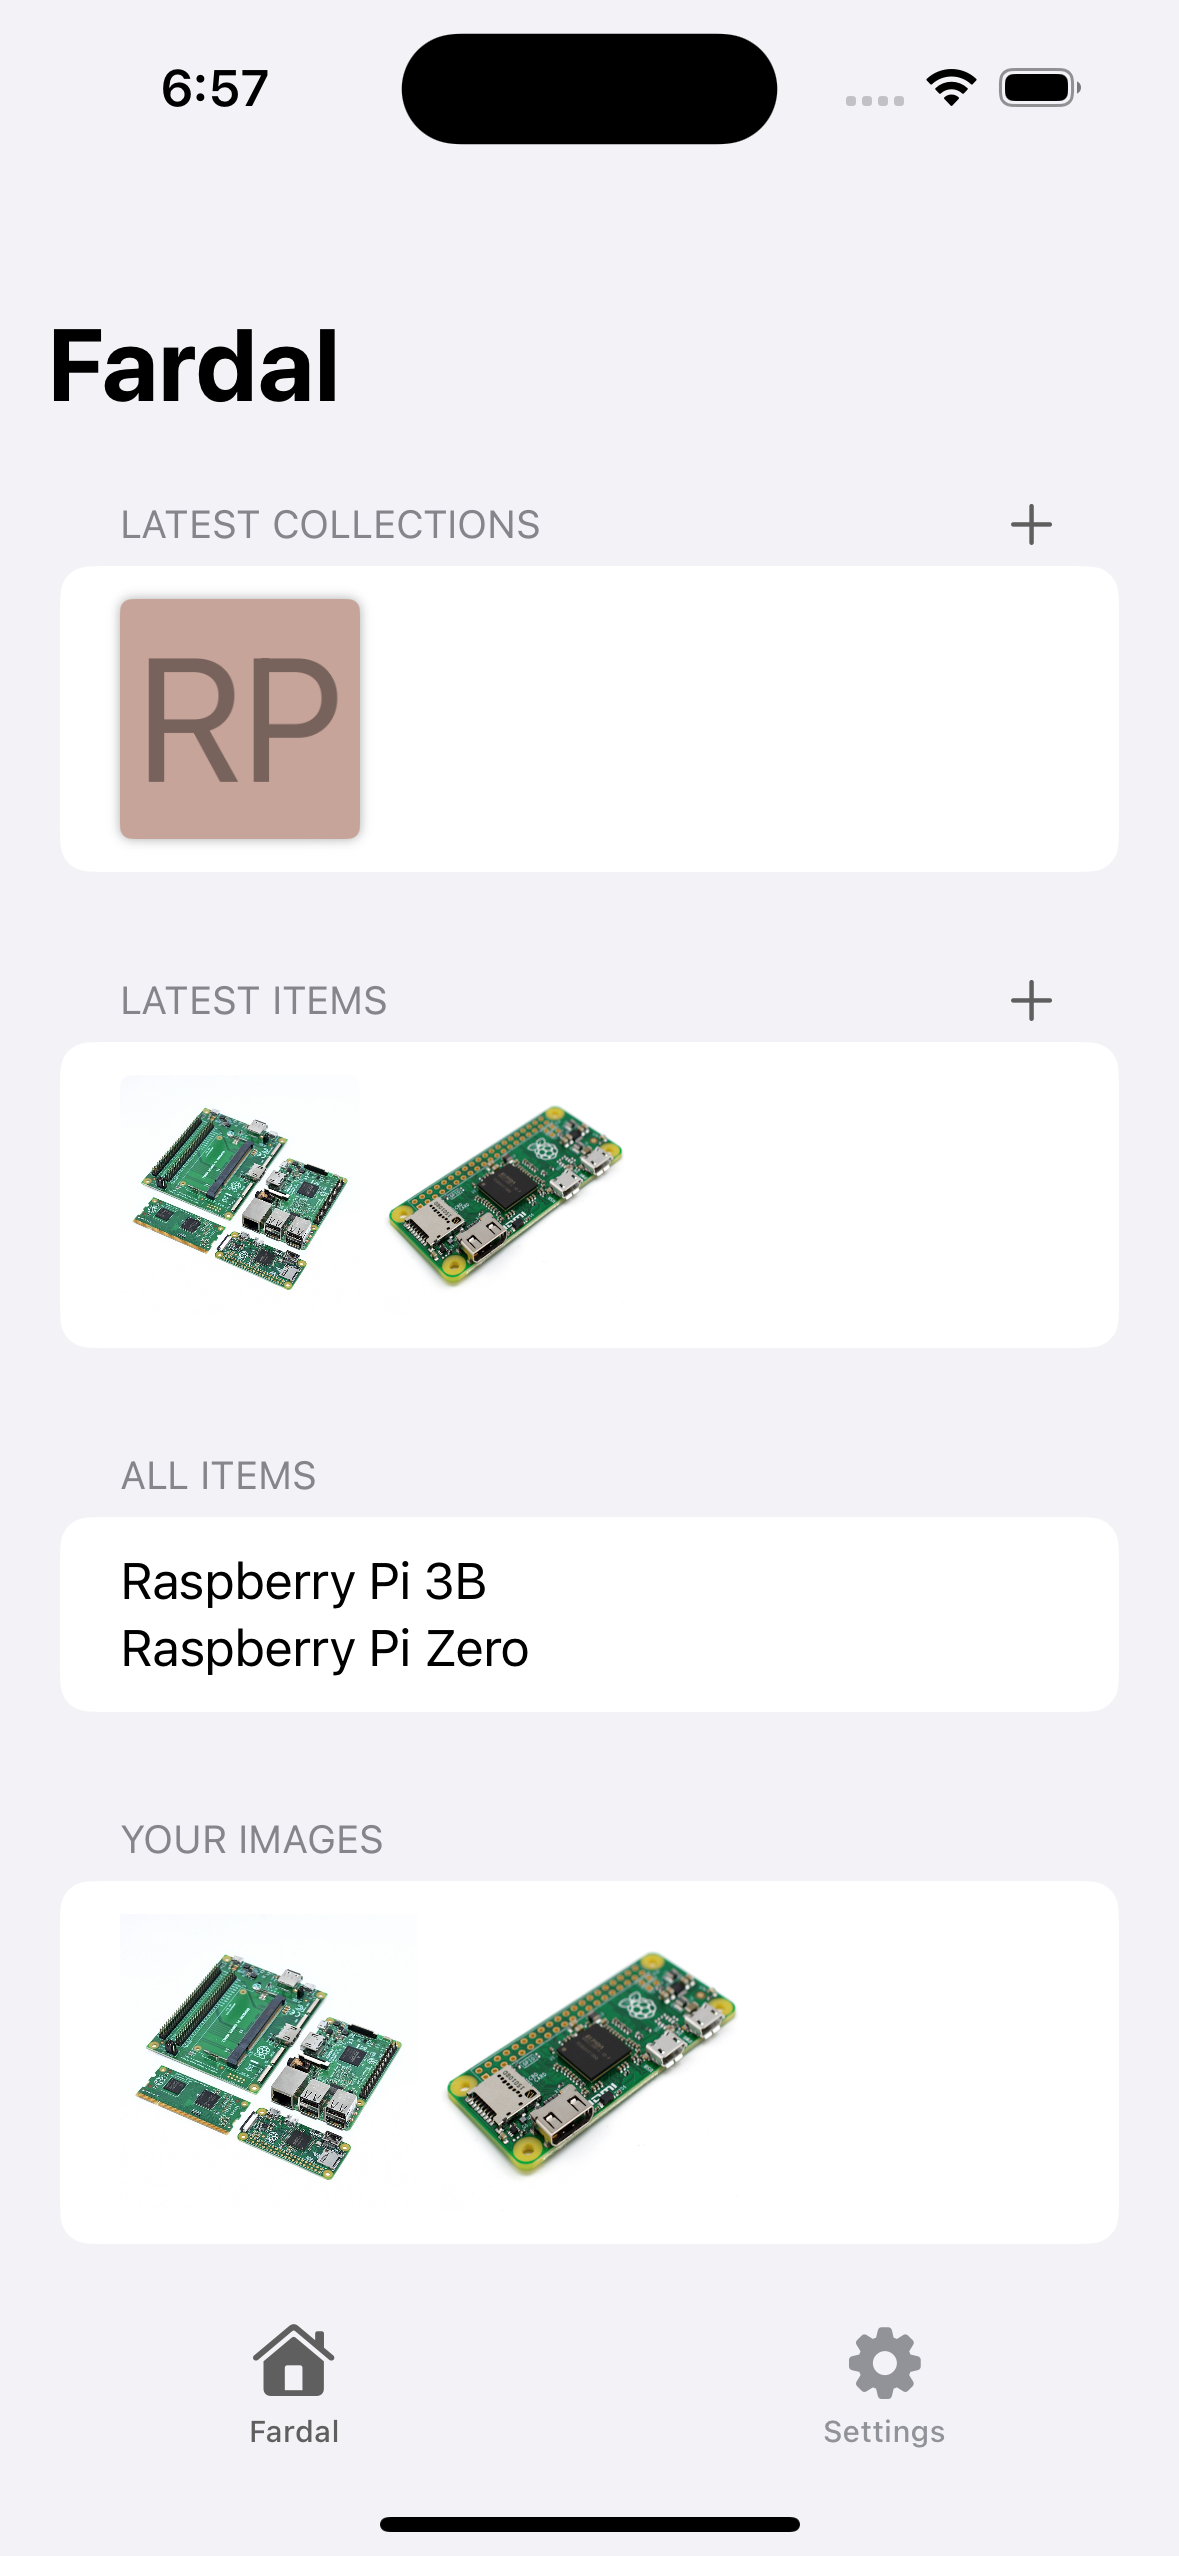
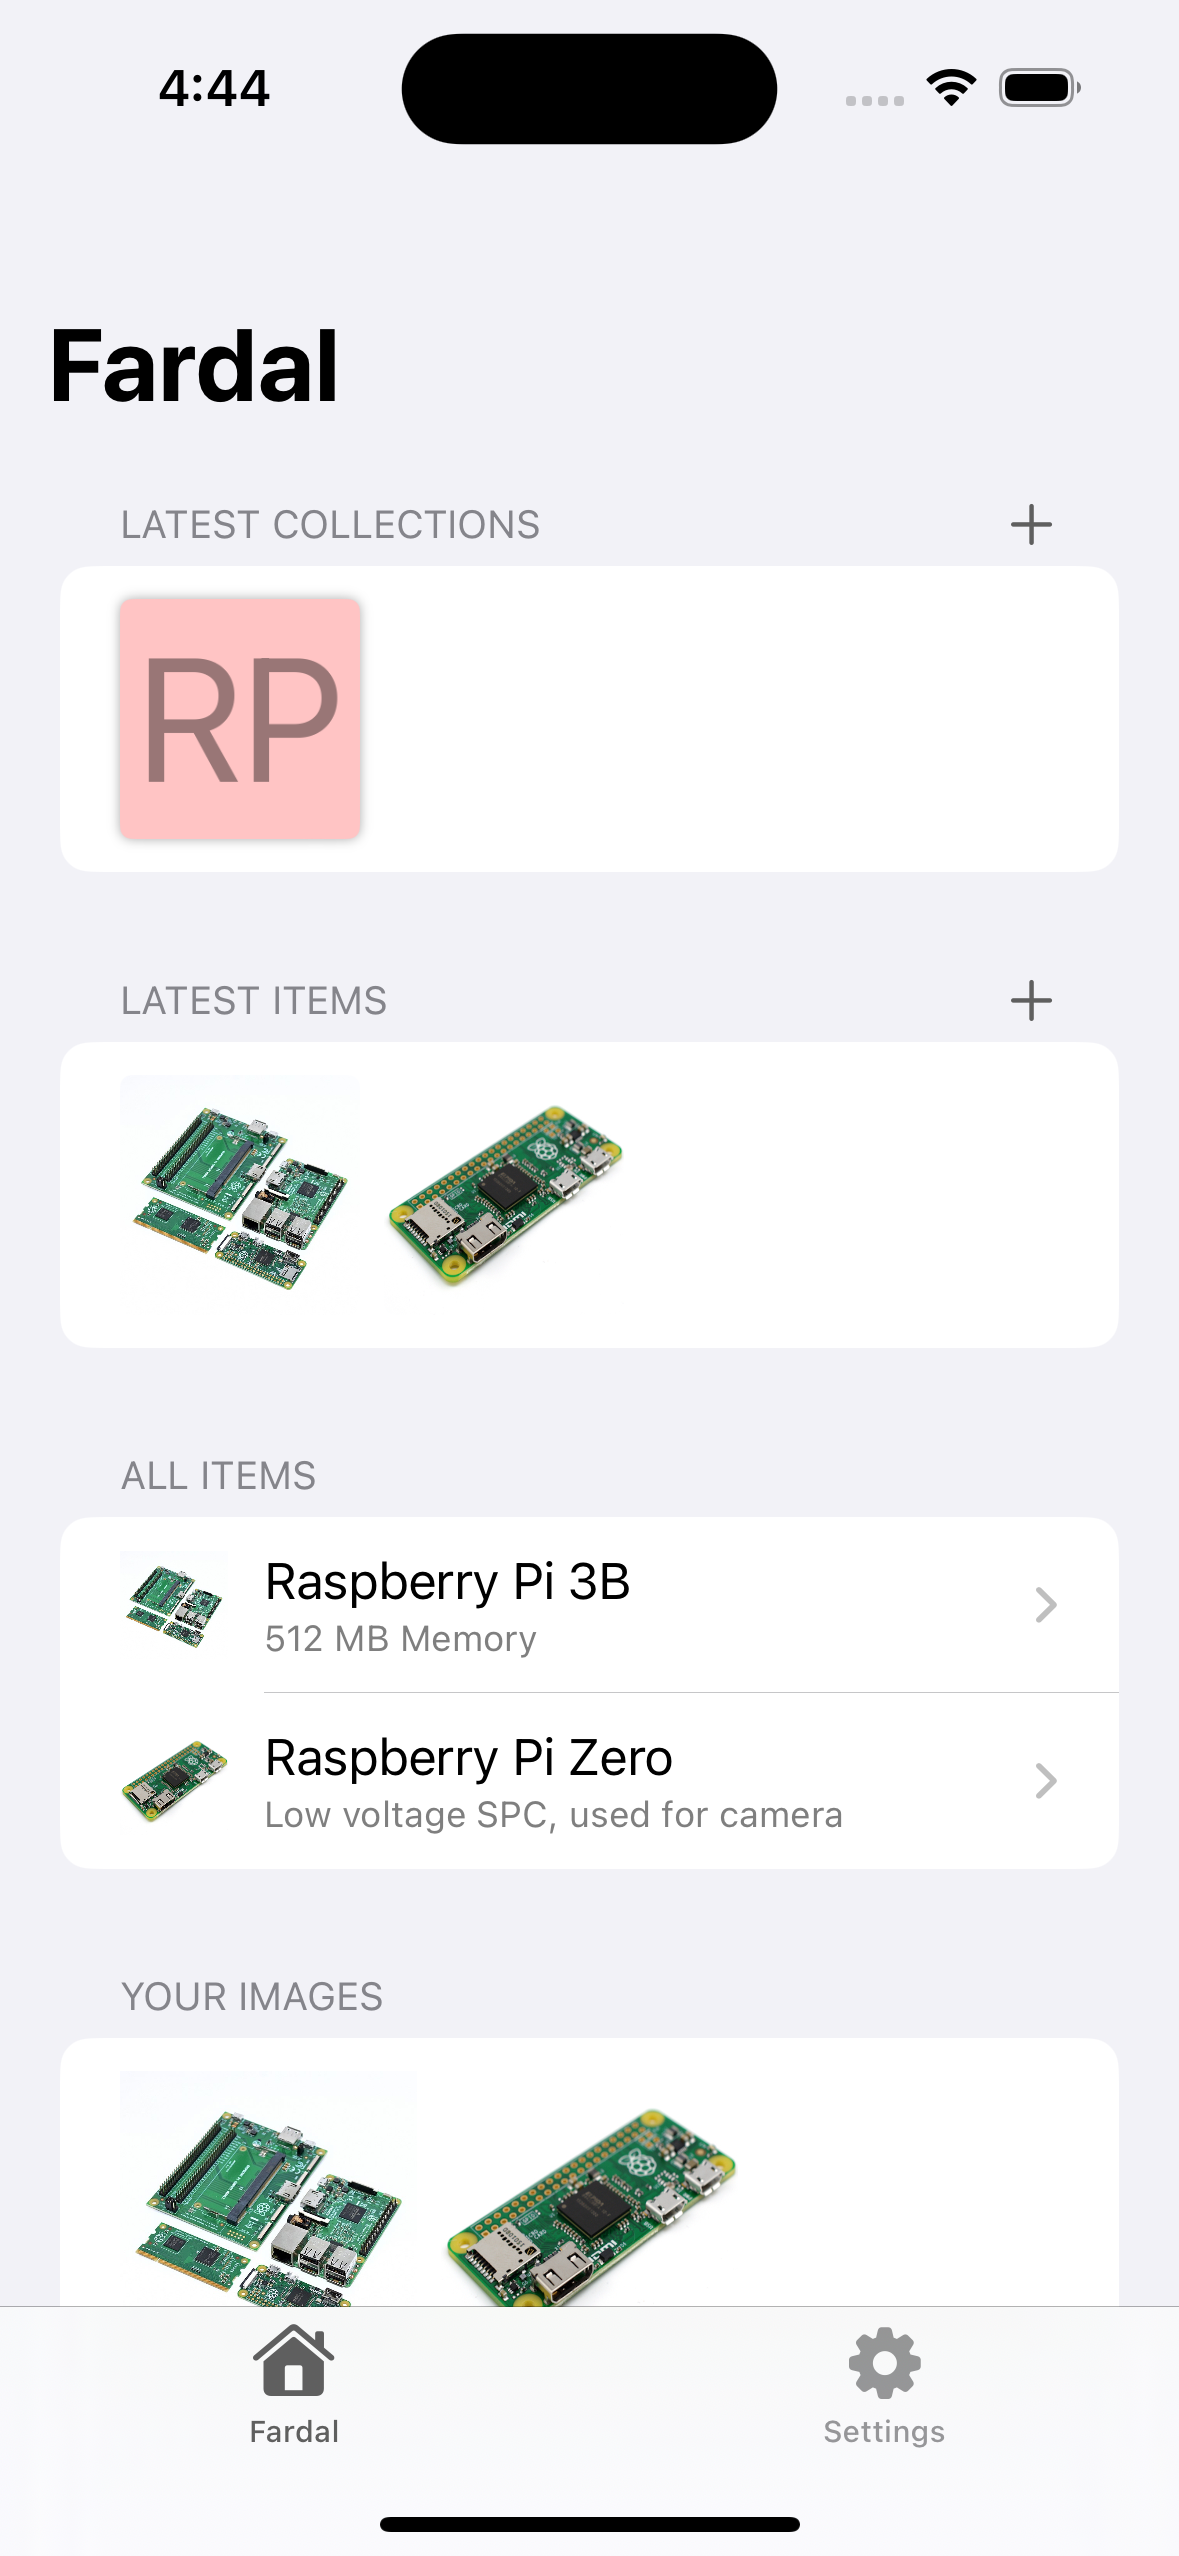
Added item list record styling and some Readme enhancements (#34)

diff --git a/Fardal/UI/Features/Dashboard/DashboardView.swift b/Fardal/UI/Features/Dashboard/DashboardView.swift
@@ -67,7 +67,7 @@ extension DashboardView {
                     )
                 }
                 else {
-                    ForEach(collections) { collection in
+                    ForEach(collections.prefix(10)) { collection in
                         CollectionThumbnail(
                             collection: collection,
                             size: .large,
@@ -105,7 +105,7 @@ extension DashboardView {
                 else {
                     ScrollView(.horizontal) {
                         LazyHStack {
-                            ForEach(items) { item in
+                            ForEach(items.prefix(10)) { item in
                                 ItemThumbnail(
                                     item: item,
                                     size: .large,
@@ -142,10 +142,8 @@ extension DashboardView {
             else {
                 List {
                     ForEach(items) { item in
-                        NavigationLink(value: item) {
-                            Text(item.title)
-                        }
-                        .buttonStyle(.borderless)
+                        ItemNavigationLink(item: item)
+                            .buttonStyle(.borderless)
                     }
                 }.frame(alignment: .leading)
             }

diff --git a/Fardal/UI/Features/Item/List/ItemNavigationLink.swift b/Fardal/UI/Features/Item/List/ItemNavigationLink.swift
@@ -1,0 +1,49 @@
+//
+//  ItemListItem.swift
+//  Fardal
+//
+//  Created by Tobias Scholze on 28.12.23.
+//
+
+import SwiftUI
+
+/// A `NavigationLink` that renderes its label with
+/// human-identifeable `Item` information.
+struct ItemNavigationLink: View {
+    // MARK: - Properties -
+    
+    /// Item that shall be rendered.
+    let item: ItemModel
+    
+    // MARK: - UI -
+    
+    var body: some View {
+        NavigationLink(destination: ItemDetailView(initialState: .read(item))) {
+            HStack(spacing: Theme.Spacing.medium) {
+                if let image = item.imagesData?.first?.image {
+                    image.resizable()
+                        .frame(width: 36, height: 36)
+                }
+                
+                VStack(alignment: .leading) {
+                    Text(item.title)
+                    Text(item.summary)
+                        .font(.caption)
+                        .foregroundStyle(.secondary)
+                }
+            }
+            
+        }
+    }
+}
+
+// MARK: - Preview -
+
+#Preview {
+    ItemNavigationLink(
+        item: .init(
+            title: "My title",
+            summary: "and my awesome summary!"
+        )
+    )
+}

diff --git a/Fardal/UI/Features/Collection/Detail/CollectionDetailView.swift b/Fardal/UI/Features/Collection/Detail/CollectionDetailView.swift
@@ -288,21 +288,7 @@ extension CollectionDetailView {
                 // Mode: Filled items
                 List {
                     ForEach(items) { item in
-                        NavigationLink {
-                            ItemDetailView(initialState: .read(item))
-                        } label: {
-                            HStack {
-                                if let uiImage = item.imagesData?.first?.uiImage {
-                                    LabeledContent {
-                                        Image(uiImage: uiImage)
-                                            .resizable()
-                                            .frame(width: 24, height: 24)
-                                    } label: {
-                                        Text(item.title)
-                                    }
-                                }
-                            }
-                        }
+                       ItemNavigationLink(item: item)
                     }
                 }
             }

diff --git a/Fardal/UI/Components/IconWizard/SymbolPickerView.swift b/Fardal/UI/Components/IconWizard/SymbolPickerView.swift
@@ -37,6 +37,8 @@ struct SymbolPickerView: View {
         VStack {
             // Serach field
             TextField("SymbolPicker.SearchQuery.Title", text: $searchQuery)
+                .autocorrectionDisabled()
+                .textInputAutocapitalization(.never)
                 .textFieldStyle(.roundedBorder)
                 .padding(.horizontal)
                 .onChange(
@@ -74,8 +76,9 @@ extension SymbolPickerView {
             filteredSymbols = allSymbols
         }
         else {
+            let lowercasedQuery = newValue.lowercased()
             filteredSymbols = allSymbols.filter { symbol in
-                symbol.rawValue.contains(newValue)
+                symbol.rawValue.contains(lowercasedQuery)
             }
         }
     }

diff --git a/Fardal/Models/Item/ItemModel.swift b/Fardal/Models/Item/ItemModel.swift
@@ -67,17 +67,3 @@ final class ItemModel {
         customAttributes = []
     }
 }
-
-// MARK: - Mocked -
-
-extension ItemModel {
-    /// Gets a static mocked item entry to be used on Previews
-    static func makeMockedItem(with context: ModelContext) -> ItemModel {
-        let item = ItemModel(title: "Mocked", summary: "Mocked", updatedAt: .now)
-        context.insert(item)
-
-        item.imagesData = [] // <-- Crash
-
-        return item
-    }
-}

diff --git a/Fardal/UI/Features/Image/ImageDetailView.swift b/Fardal/UI/Features/Image/ImageDetailView.swift
@@ -83,9 +83,7 @@ extension ImageDetailView {
 
     private func makeLinkedSection(for item: ItemModel) -> some View {
         Section("ImageDetail.Section.Usage.Title") {
-            NavigationLink(item.title) {
-                ItemDetailView(initialState: .read(item))
-            }
+            ItemNavigationLink(item: item)
         }
     }
 

diff --git a/README.md b/README.md
@@ -16,7 +16,14 @@
 ## Build tooling
 To have a versioned build phase tooling chain, the app uses [`mint`](https://github.com/yonaskolb/Mint) to have a defined version set of tools. 
 
-## Tools
+## Tech stack
+`Fardal` is meant to be 100% Swift and dependency-free app. It uses Swift, SwiftUI and SwiftData to be implemented. Simple external dependencies like a helper to work with `SFSymbols` are in use.
+
+Besides this, the app should only be designed using 100% stock controls. Additional styles for buttons or text are only allowed if the do not have any fallback to `UIKit` or other `inspect`-ion helpers to achieve the design.
+
+In later versions, Fardal could contain other Apple fameworks like `MLKit`.
+
+## Build tooling
 |Name|Configuration file|
 |-|-|
 |SwiftLint|`.swiftlint`|
@@ -30,22 +37,26 @@ The `SwiftFormat` command will be currently triggered by a shell command:
 mint run swiftformat .
 ```
 
-## Tech stack
-`Fardal` is meant to be 100% Swift and dependency-free app. It uses Swift, SwiftUI and SwiftData to be implemented. Simple external dependencies like a helper to work with `SFSymbols` are in use.
-
-Besides this, the app should only be designed using 100% stock controls. Additional styles for buttons or text are only allowed if the do not have any fallback to `UIKit` or other `inspect`-ion helpers to achieve the design.
-
-In later versions, Fardal could contain other Apple fameworks like `MLKit`.
-
 ## Blockers fixed
 ### Version 0.0.1
 I'm struggeling hard to get the `SwiftData` with inter-model relationships working. The unnamed Xcode crashes with no helpful stack-trace are a real bummer to continue with this app.
 
 ## How it looks
 ### Version 0.0.1
+
+**Row contents**
+1. Dashboard in empty and filled
+2. Collection detail in read and edit mode
+3. Item detail in empty and read mode
+4. Misc. views like custom pickers or other detail views
+
 | | | | |
 |-|-|-|-|
-|<img src="__docs/001-dashboard-empty-light.png"/>|<img src="__docs/001-dashboard-filled-light.png"/>|<img src="__docs/001-dashboard-item-detail-1.png"/>|<img src="__docs/001-dashboard-item-detail-2.png" />|
+|<img src="__docs/001-dashboard-empty-light.png"/>|<img src="__docs/001-dashboard-filled-light.png"/>|
+|<img src="__docs/001-collection-detail.png"/>|<img src="__docs/001-collection-detail-edit.png"/>||||
+|<img src="__docs/001-item-detail-empty-1.png"/>|<img src="__docs/001-item-detail-empty-2.png" />|<img src="__docs/001-item-detail-1.png"/>|<img src="__docs/001-item-detail-2.png" />|
+|<img src="__docs/001-symbol-wizard.png"/>|<img src="__docs/001-image-detail.png"/>|
+
 
 ## Used dependencies
 
